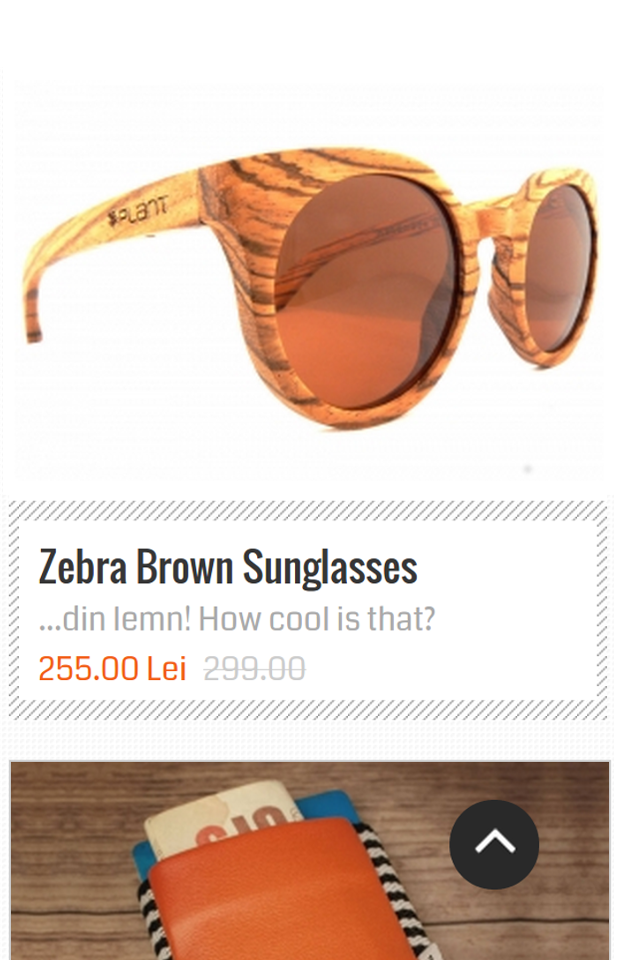
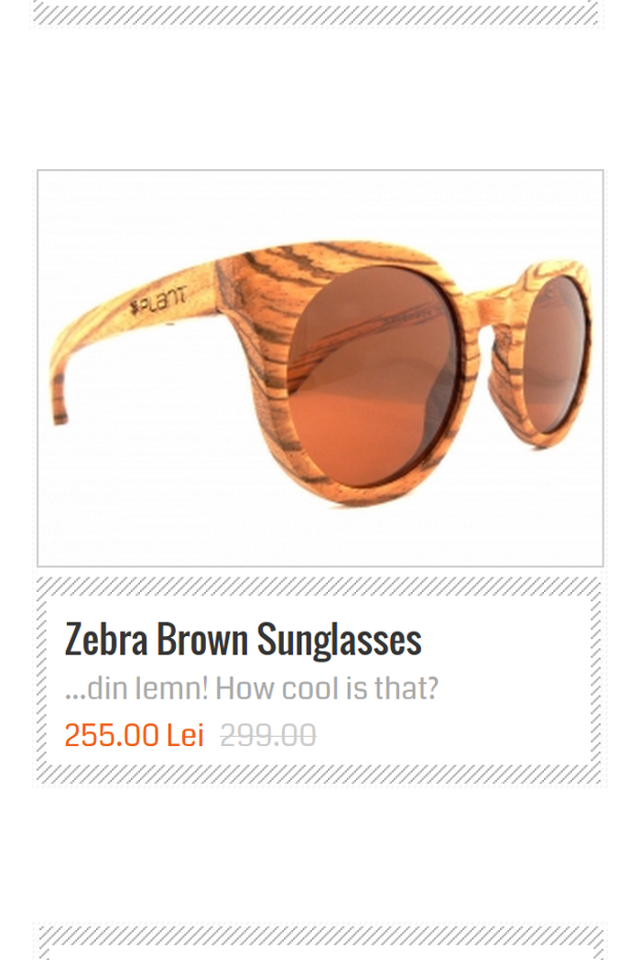
Still thumbs needs to be rethinked

diff --git a/site/components/pages/work/work.html b/site/components/pages/work/work.html
@@ -454,70 +454,6 @@
       
 
 
-<article class="work work--thumb work--smuff">
-  <h3 class="work--thumb__title">Smuff</h3>
-
-  
-  <figure >
-  
-    <a href="/smuff" title="The Smuff screenshot">
-  
-
-
-  
-  
-  
-  
-  
-  
-  
-  
-
-  
-  <!-- Showing different images for different devices -->
-  
-    
-    
-    
-    
-      
-      
-    
-  
-
-
-  <picture>
-    <!--[if IE 9]><video style="display: none;"><![endif]-->
-    <source media="(min-width: 90em)" srcset="/assets/images/smuff-desktop-screenshot_desktop.png, /assets/images/smuff-desktop-screenshot_desktop2x.png 2x">
-    <source media="(min-width: 64em)" srcset="/assets/images/smuff-desktop-screenshot_laptop.png, /assets/images/smuff-desktop-screenshot_laptop2x.png 2x">
-    <source media="(min-width: 37.5em)" srcset="/assets/images/smuff-desktop-screenshot_tablet.png, /assets/images/smuff-desktop-screenshot_tablet2x.png 2x">
-    <source srcset="/assets/images/smuff-archive-mobile-screenshot_mobile.png, /assets/images/smuff-archive-mobile-screenshot_mobile2x.png 2x">
-    <!--[if IE 9]></video><![endif]-->
-    <img srcset="/assets/images/smuff-desktop-screenshot_desktop.png" alt="The Smuff screenshot">
-  </picture>
-
-  <figcaption>
-    The Smuff screenshot
-  </figcaption>
-
-  </a>
-</figure>
-
-
-  <aside class="work--thumb__services">
-    <h3>Services</h3>
-
-    <div>
-      Design, Front-end, Wordpress, Yii, E-commerce
-    </div>
-  </aside>
-</article>
-
-    
-      
-      
-
-
 <article class="work work--thumb work--inu-chivu">
   <h3 class="work--thumb__title">Inu Chivu</h3>
 
@@ -573,6 +509,70 @@
 
     <div>
       Design, Front-end, Wordpress
+    </div>
+  </aside>
+</article>
+
+    
+      
+      
+
+
+<article class="work work--thumb work--smuff">
+  <h3 class="work--thumb__title">Smuff</h3>
+
+  
+  <figure >
+  
+    <a href="/smuff" title="The Smuff screenshot">
+  
+
+
+  
+  
+  
+  
+  
+  
+  
+  
+
+  
+  <!-- Showing different images for different devices -->
+  
+    
+    
+    
+    
+      
+      
+    
+  
+
+
+  <picture>
+    <!--[if IE 9]><video style="display: none;"><![endif]-->
+    <source media="(min-width: 90em)" srcset="/assets/images/smuff-desktop-screenshot_desktop.png, /assets/images/smuff-desktop-screenshot_desktop2x.png 2x">
+    <source media="(min-width: 64em)" srcset="/assets/images/smuff-desktop-screenshot_laptop.png, /assets/images/smuff-desktop-screenshot_laptop2x.png 2x">
+    <source media="(min-width: 37.5em)" srcset="/assets/images/smuff-desktop-screenshot_tablet.png, /assets/images/smuff-desktop-screenshot_tablet2x.png 2x">
+    <source srcset="/assets/images/smuff-archive-mobile-screenshot_mobile.png, /assets/images/smuff-archive-mobile-screenshot_mobile2x.png 2x">
+    <!--[if IE 9]></video><![endif]-->
+    <img srcset="/assets/images/smuff-desktop-screenshot_desktop.png" alt="The Smuff screenshot">
+  </picture>
+
+  <figcaption>
+    The Smuff screenshot
+  </figcaption>
+
+  </a>
+</figure>
+
+
+  <aside class="work--thumb__services">
+    <h3>Services</h3>
+
+    <div>
+      Design, Front-end, Wordpress, Yii, E-commerce
     </div>
   </aside>
 </article>

diff --git a/site/components/pages/work/work.scss b/site/components/pages/work/work.scss
@@ -1,6 +1,6 @@
 html {
   &.work {
-    
+
     .title {
       @include title;
     }
@@ -11,7 +11,6 @@ html {
 
       display: flex;
       flex-wrap: wrap;
-      justify-content: space-around;
       align-items: center;
 
       .work--thumb {

diff --git a/site/components/project/work/--thumb/work--thumb.scss b/site/components/project/work/--thumb/work--thumb.scss
@@ -1,14 +1,8 @@
 @mixin work--thumb {
-
   padding-bottom: $lem * 2;
 
-  &:last-of-type {
-    padding-bottom: 0;
-  }
-
-
   @include mobile-and-up {
-    margin-right: $lem;
+    margin-right: $lem * 3;
     margin-bottom: $lem;
   }
 
